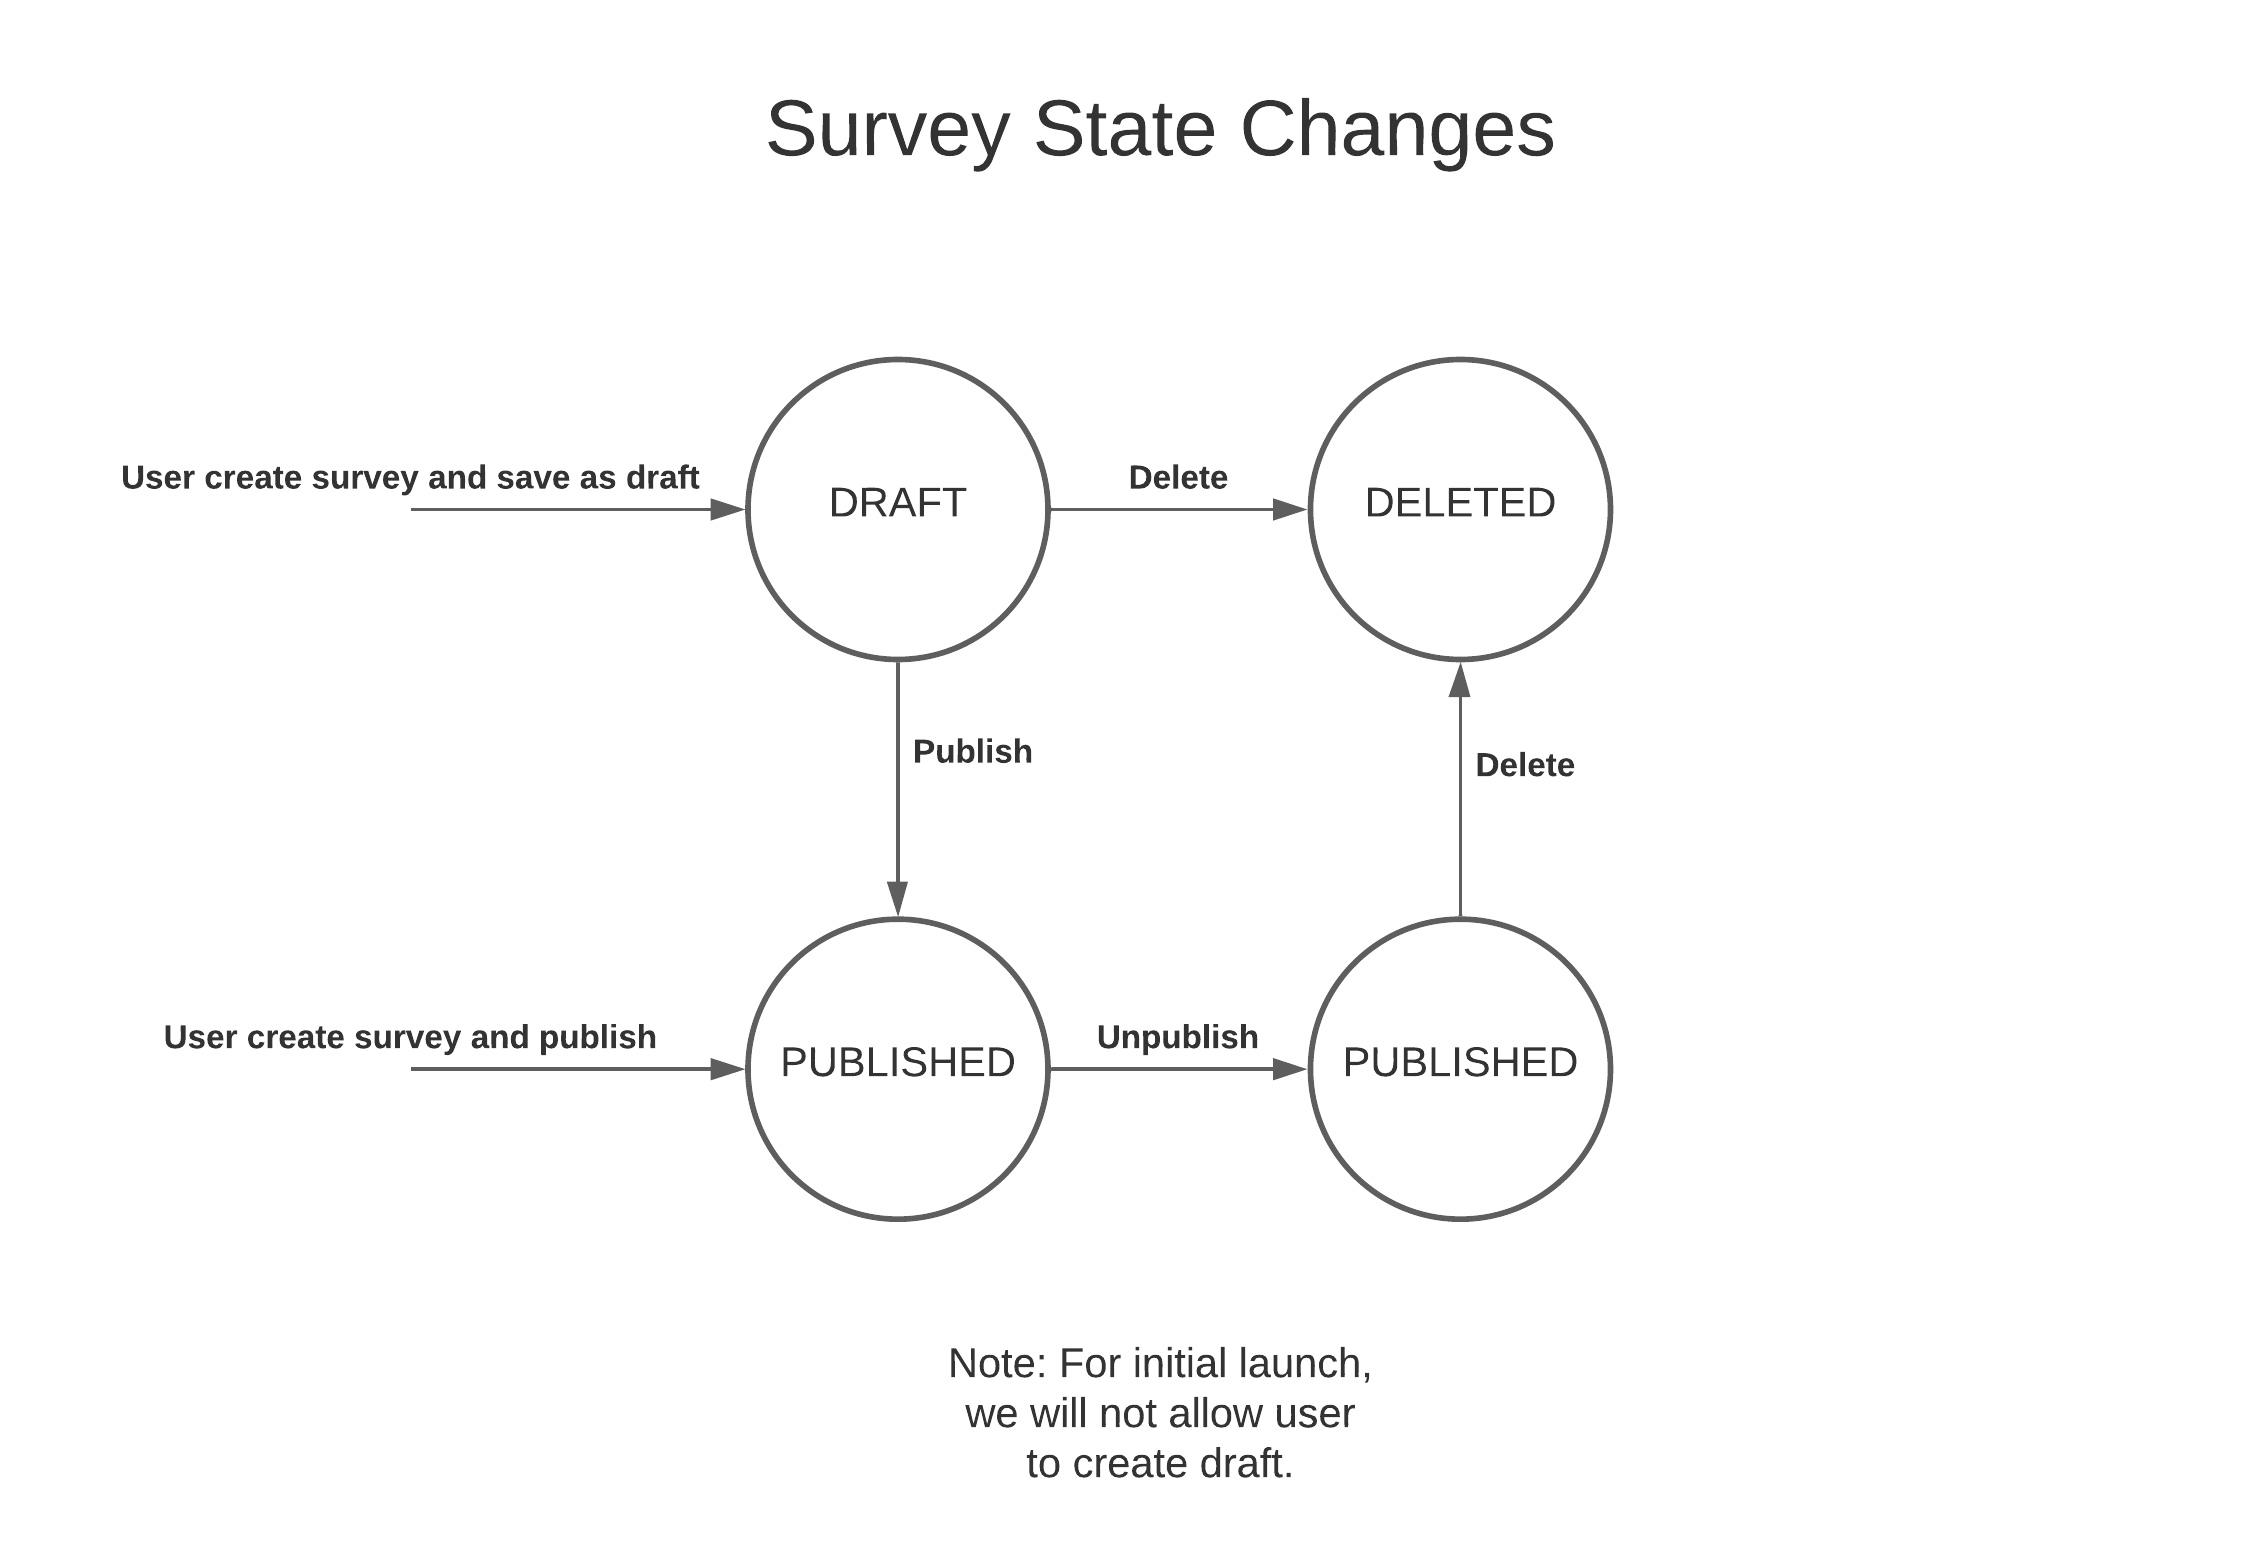
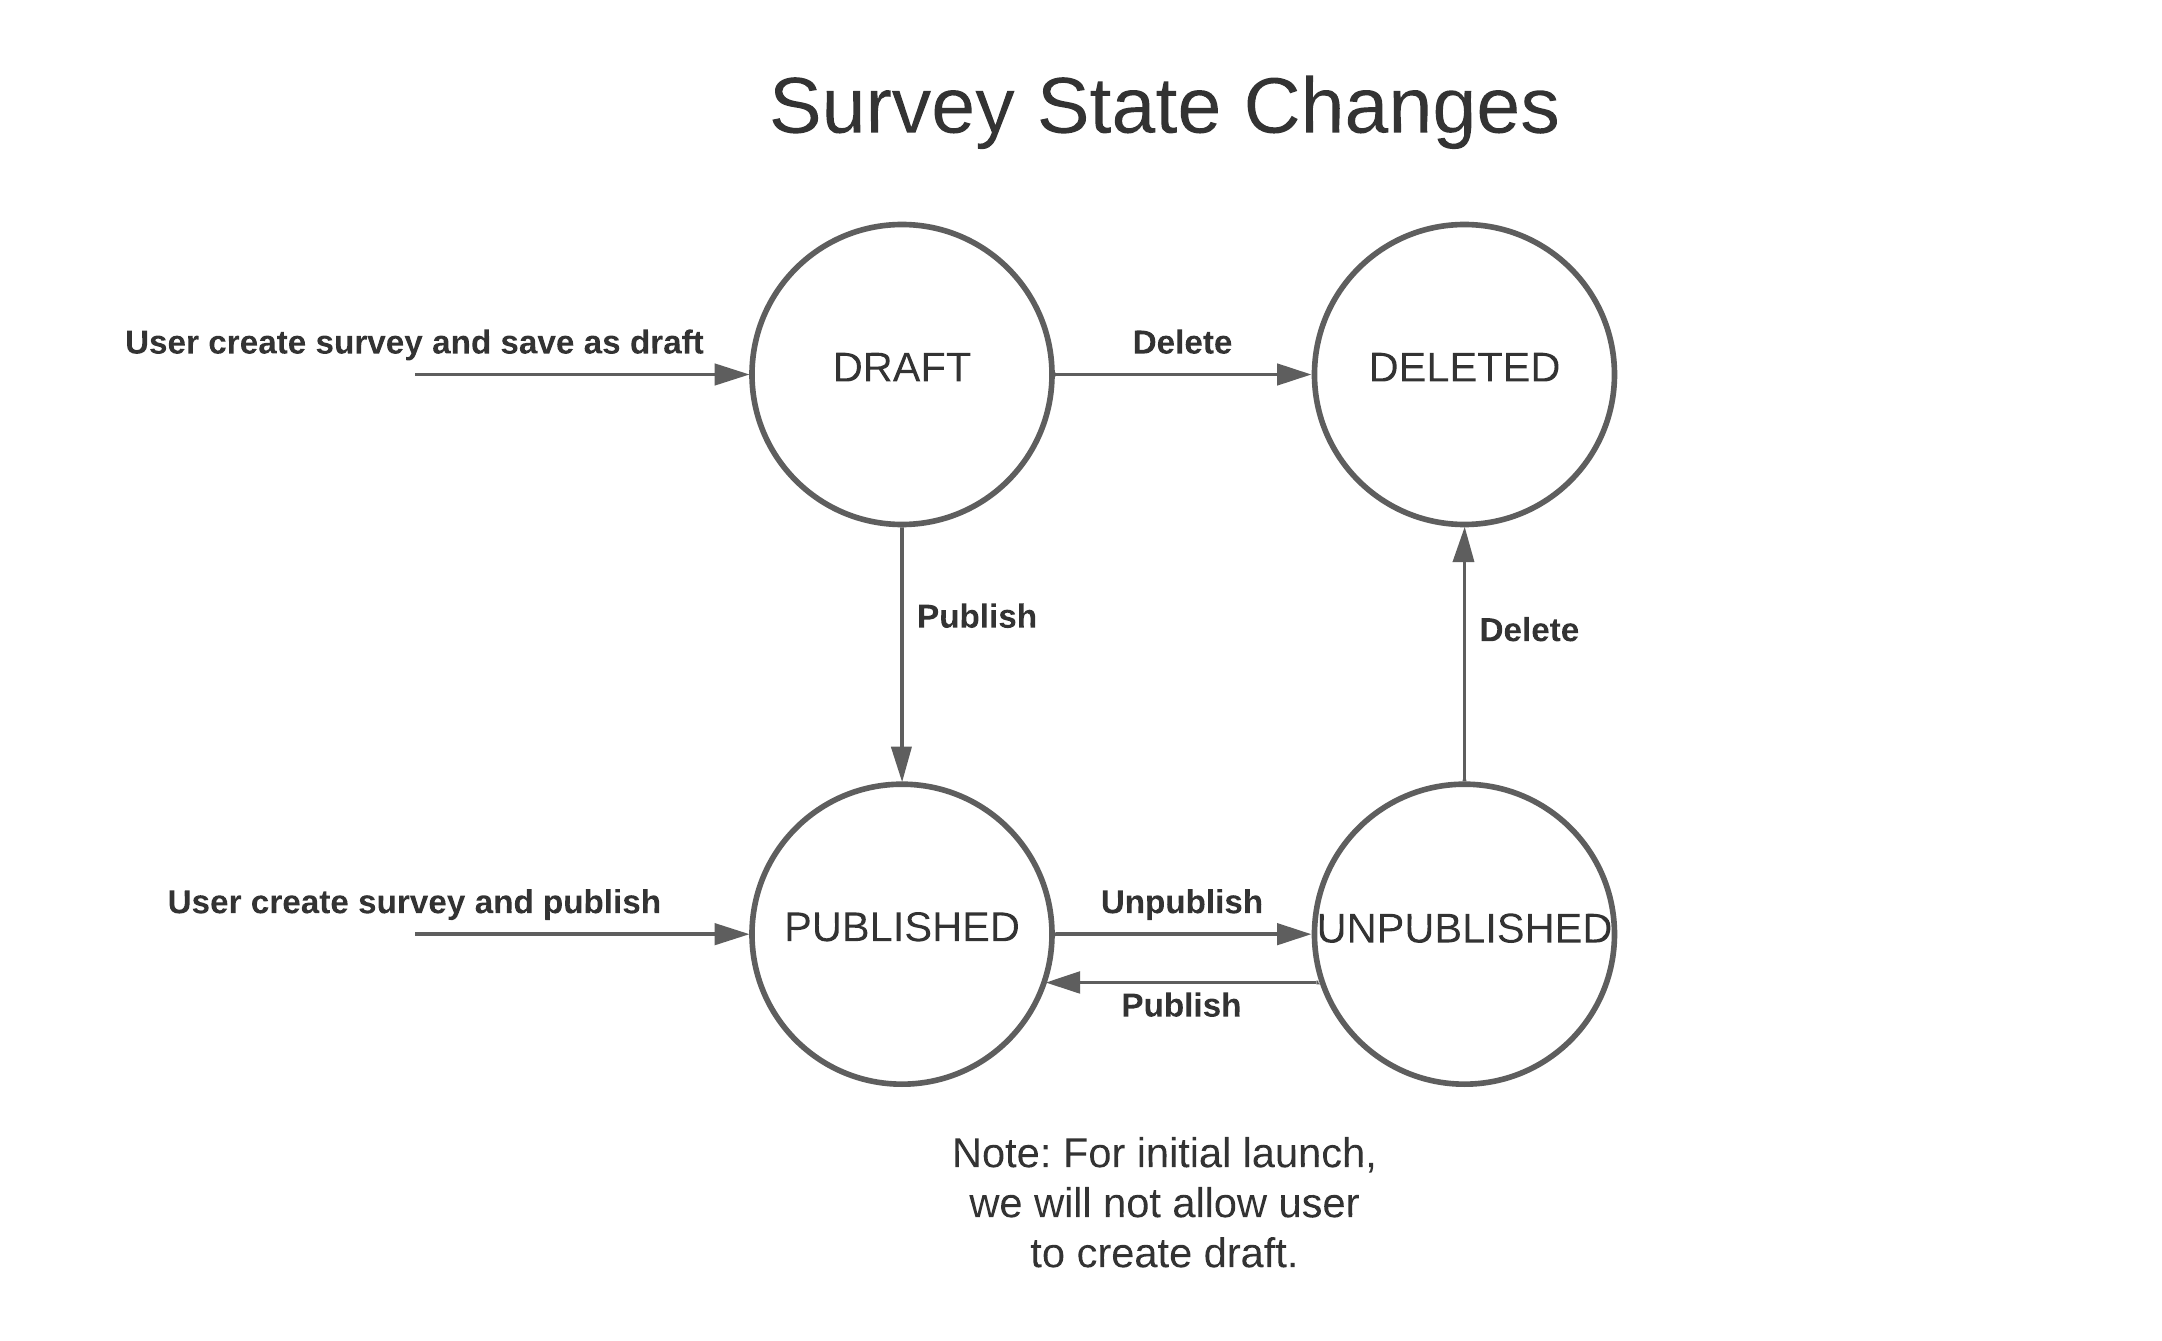
Add updateSurveyStatus API

diff --git a/src/main/java/com/bd/xchoice/service/impl/SurveyServiceImpl.java b/src/main/java/com/bd/xchoice/service/impl/SurveyServiceImpl.java
@@ -16,12 +16,12 @@ import com.bd.xchoice.service.SurveyService;
 import com.bd.xchoice.service.UserService;
 import lombok.NonNull;
 import org.springframework.beans.factory.annotation.Autowired;
+import org.springframework.security.core.parameters.P;
 import org.springframework.stereotype.Service;
 
 import java.util.ArrayList;
 import java.util.List;
 import java.util.NoSuchElementException;
-import java.util.Optional;
 import java.util.UUID;
 import java.util.stream.Collectors;
 
@@ -130,5 +130,23 @@ public class SurveyServiceImpl implements SurveyService {
                 .selections(selections)
                 .surveyId(questions.get(0).getSurvey().getId())
                 .build();
+    }
+
+    @Override
+    public void updateSurveyStatus(int id, @NonNull final SurveyStatus initialStatus, @NonNull final SurveyStatus targetStatus) {
+        if (initialStatus.equals(targetStatus)) {
+            return;
+        }
+        if (invalidStatusTransition(initialStatus, targetStatus)) {
+            throw new IllegalArgumentException(String.format("Illegal status transition from %s to %s", initialStatus, targetStatus));
+        }
+        surveyRepository.setStatusForSurvey(id, targetStatus);
+    }
+
+    private boolean invalidStatusTransition(final SurveyStatus initialStatus, final SurveyStatus targetStatus) {
+        return SurveyStatus.DRAFT.equals(targetStatus)
+                || SurveyStatus.DELETED.equals(initialStatus)
+                || (SurveyStatus.DRAFT.equals(initialStatus) && SurveyStatus.UNPUBLISHED.equals(targetStatus))
+                || (SurveyStatus.PUBLISHED.equals(initialStatus) && SurveyStatus.DELETED.equals(targetStatus));
     }
 }

diff --git a/src/main/java/com/bd/xchoice/controller/SurveyController.java b/src/main/java/com/bd/xchoice/controller/SurveyController.java
@@ -3,9 +3,12 @@ package com.bd.xchoice.controller;
 import com.bd.xchoice.model.Survey;
 import com.bd.xchoice.model.SurveyMetadata;
 import com.bd.xchoice.model.SurveyResponse;
+import com.bd.xchoice.model.SurveyStatus;
+import org.springframework.web.bind.annotation.DeleteMapping;
 import org.springframework.web.bind.annotation.GetMapping;
 import org.springframework.web.bind.annotation.PathVariable;
 import org.springframework.web.bind.annotation.PostMapping;
+import org.springframework.web.bind.annotation.PutMapping;
 import org.springframework.web.bind.annotation.RequestBody;
 import org.springframework.web.bind.annotation.RequestParam;
 
@@ -63,4 +66,21 @@ public interface SurveyController {
      */
     @GetMapping("/surveys/responses")
     SurveyResponse findSurveyResponse(@RequestParam String slug);
+
+    /**
+     * Update survey status to target status.
+     * The logic will perform status check to make sure this transition is valid.
+     *
+     * @param status target status
+     */
+    @PostMapping("/surveys/{id}")
+    void updateSurveyStatus(@PathVariable Integer id, @RequestBody SurveyStatus status);
+
+    /**
+     * Delete survey.
+     * It will perform a soft delete (by changing the status to Deleted).
+     *
+     */
+    @DeleteMapping("/surveys/{id}")
+    void deleteSurvey();
 }

diff --git a/src/main/java/com/bd/xchoice/controller/impl/SurveyControllerImpl.java b/src/main/java/com/bd/xchoice/controller/impl/SurveyControllerImpl.java
@@ -4,6 +4,7 @@ import com.bd.xchoice.controller.SurveyController;
 import com.bd.xchoice.model.Survey;
 import com.bd.xchoice.model.SurveyMetadata;
 import com.bd.xchoice.model.SurveyResponse;
+import com.bd.xchoice.model.SurveyStatus;
 import com.bd.xchoice.model.User;
 import com.bd.xchoice.security.JwtUtil;
 import com.bd.xchoice.service.SurveyService;
@@ -51,5 +52,16 @@ public class SurveyControllerImpl implements SurveyController {
     @Override
     public SurveyResponse findSurveyResponse(@NonNull final String slug) {
         return surveyService.findSurveyResponse(slug);
+    }
+
+    @Override
+    public void updateSurveyStatus(@NonNull Integer id, @NonNull final SurveyStatus status) {
+        final Survey survey = surveyService.getSurvey(id, JwtUtil.getUserEmail());
+        surveyService.updateSurveyStatus(id, survey.getStatus(), status);
+    }
+
+    @Override
+    public void deleteSurvey() {
+
     }
 }

diff --git a/src/main/java/com/bd/xchoice/repository/SurveyRepository.java b/src/main/java/com/bd/xchoice/repository/SurveyRepository.java
@@ -1,10 +1,20 @@
 package com.bd.xchoice.repository;
 
 import com.bd.xchoice.model.Survey;
+import com.bd.xchoice.model.SurveyStatus;
 import org.springframework.data.jpa.repository.JpaRepository;
+import org.springframework.data.jpa.repository.Modifying;
+import org.springframework.data.jpa.repository.Query;
+
+import javax.transaction.Transactional;
 
 /**
  * Interface for CRUD Survey.
  */
 public interface SurveyRepository extends JpaRepository<Survey, Integer> {
+
+    @Modifying
+    @Transactional
+    @Query("update Survey s set s.status = ?2 where s.id = ?1")
+    int setStatusForSurvey(int id, SurveyStatus status);
 }

diff --git a/src/main/java/com/bd/xchoice/service/SurveyService.java b/src/main/java/com/bd/xchoice/service/SurveyService.java
@@ -3,6 +3,7 @@ package com.bd.xchoice.service;
 import com.bd.xchoice.model.Survey;
 import com.bd.xchoice.model.SurveyMetadata;
 import com.bd.xchoice.model.SurveyResponse;
+import com.bd.xchoice.model.SurveyStatus;
 import com.bd.xchoice.model.User;
 
 import java.util.List;
@@ -18,4 +19,6 @@ public interface SurveyService {
     String postSurveyResponse(int id, List<Integer> selections);
 
     SurveyResponse findSurveyResponse(String slug);
+
+    void updateSurveyStatus(int id, SurveyStatus initialStatus, SurveyStatus targetStatus);
 }

diff --git a/src/main/java/com/bd/xchoice/model/Survey.java b/src/main/java/com/bd/xchoice/model/Survey.java
@@ -10,6 +10,7 @@ import org.hibernate.annotations.FetchMode;
 
 import javax.persistence.CascadeType;
 import javax.persistence.Entity;
+import javax.persistence.EnumType;
 import javax.persistence.Enumerated;
 import javax.persistence.FetchType;
 import javax.persistence.GeneratedValue;
@@ -36,7 +37,7 @@ public class Survey {
 
     private String title;
 
-    @Enumerated
+    @Enumerated(EnumType.STRING)
     private SurveyStatus status;
 
     @OneToMany(mappedBy = "survey", cascade = CascadeType.PERSIST, fetch = FetchType.EAGER)

diff --git a/src/main/java/com/bd/xchoice/security/SecurityConfig.java b/src/main/java/com/bd/xchoice/security/SecurityConfig.java
@@ -52,6 +52,7 @@ public class SecurityConfig extends WebSecurityConfigurerAdapter {
                 .mvcMatchers(HttpMethod.GET, "/surveys").authenticated()
                 .mvcMatchers(HttpMethod.POST, "/surveys").authenticated()
                 .mvcMatchers(HttpMethod.POST, "/users").authenticated()
+                .mvcMatchers(HttpMethod.POST, "/surveys/{id}").authenticated()
                 .and().cors()
                 .and().oauth2ResourceServer().jwt();
     }
